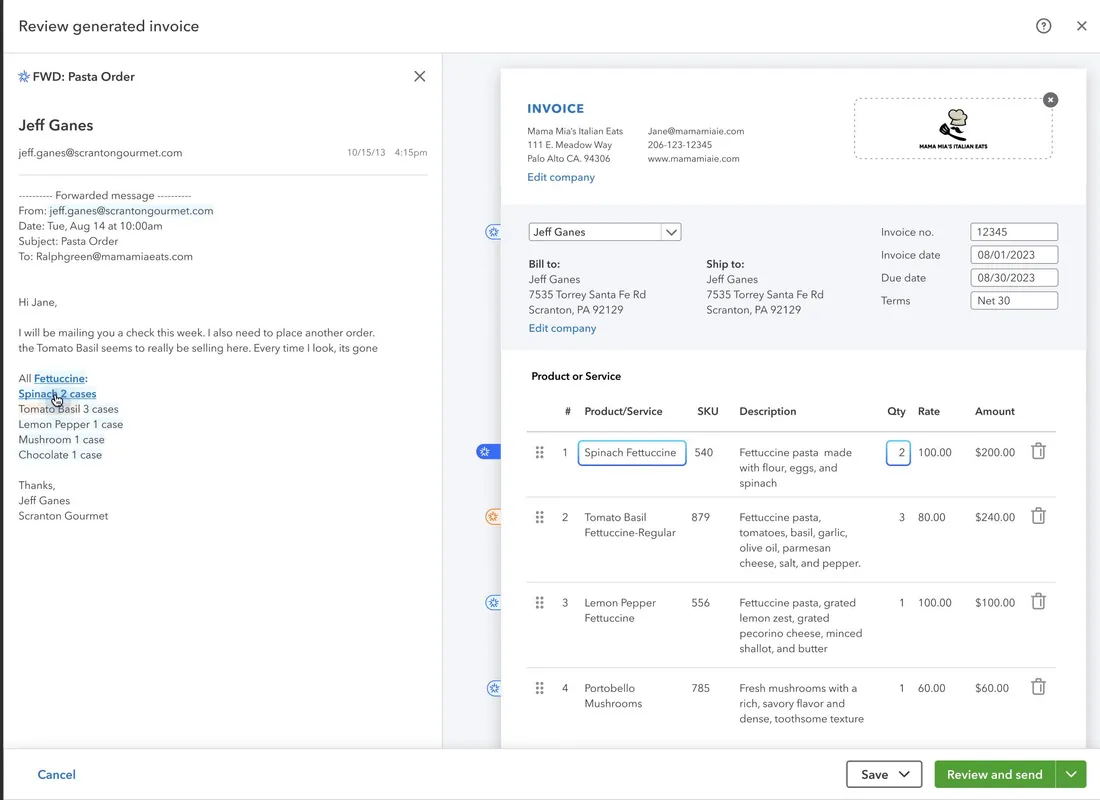
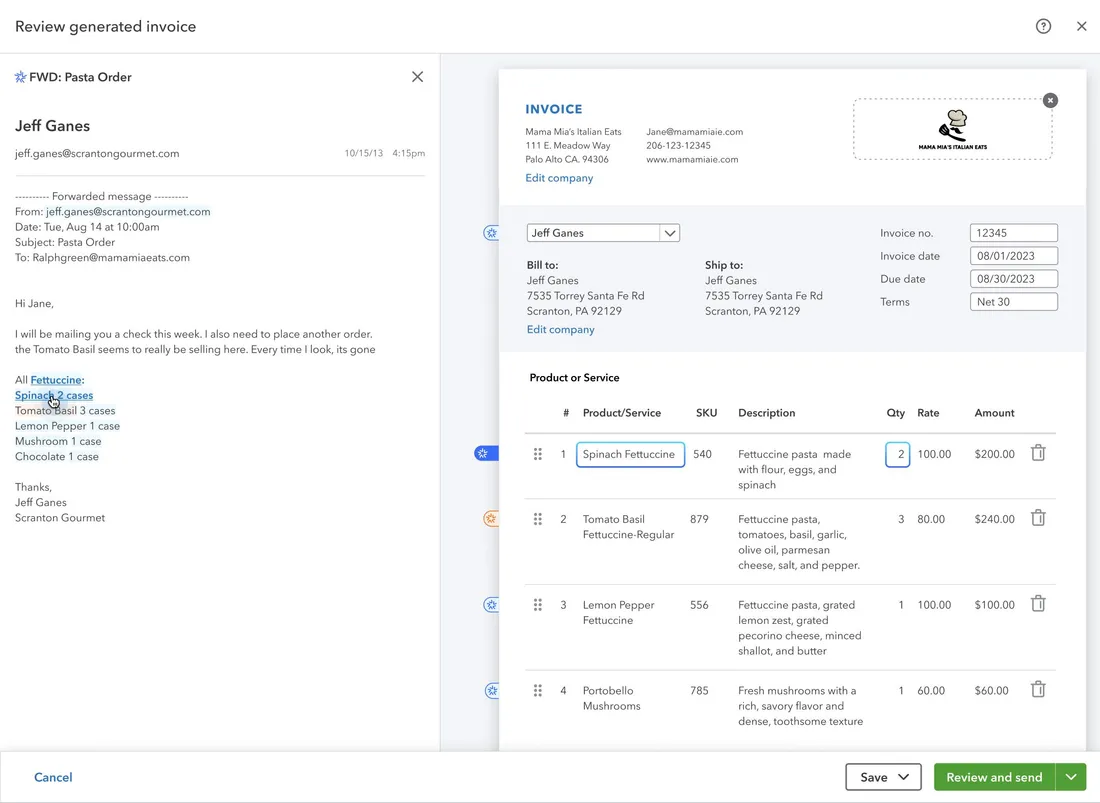
Crop black left edge from invoicing screenshot

diff --git a/index.html b/index.html
@@ -106,7 +106,7 @@
       </a>
       <a href="work.html#invoicing" style="display: flex; flex-direction: column; color: #14342e;">
         <div style="height: 250px; background: #eae7c8; padding: 36px 40px 0; overflow: hidden; display: flex; justify-content: center;">
-          <img src="assets/cs06-invoice-review-550.webp" srcset="assets/cs06-invoice-review-550.webp 550w, assets/cs06-invoice-review-1100.webp 1100w" sizes="(max-width: 860px) 92vw, 440px" width="1100" height="800" loading="lazy" decoding="async" alt="Review generated invoice: forwarded email beside the AI-drafted invoice" style="width: 100%; max-width: 440px; height: auto; object-fit: cover; object-position: top; display: block; border-radius: 10px 10px 0 0; box-shadow: 10px 10px 0 rgba(214,211,95,.55);">
+          <img src="assets/cs06-invoice-review-550.webp" srcset="assets/cs06-invoice-review-550.webp 550w, assets/cs06-invoice-review-1100.webp 1100w" sizes="(max-width: 860px) 92vw, 440px" width="1100" height="803" loading="lazy" decoding="async" alt="Review generated invoice: forwarded email beside the AI-drafted invoice" style="width: 100%; max-width: 440px; height: auto; object-fit: cover; object-position: top; display: block; border-radius: 10px 10px 0 0; box-shadow: 10px 10px 0 rgba(214,211,95,.55);">
         </div>
         <div style="display: flex; flex-direction: column; gap: 12px; padding: 26px 0 0;">
           <div style="font-size: 14px; letter-spacing: .22em; text-transform: uppercase; color: #c45f3f;">05 · craft · intuit assist</div>

diff --git a/work.html b/work.html
@@ -331,7 +331,7 @@
         <div style="width: 84px; height: 4px; background: #c45f3f; box-shadow: 5px 4px 0 #008471;"></div>
         <div style="font-size: 19px; line-height: 1.65; color: #4a4830; max-width: 560px; text-wrap: pretty;">Eliminating the manual step between a customer request and a paid invoice: AI reducing friction for owners who can’t afford to lose time.</div>
       </div>
-      <img src="assets/cs06-invoice-review-1100.webp" srcset="assets/cs06-invoice-review-550.webp 550w, assets/cs06-invoice-review-1100.webp 1100w" sizes="(max-width: 860px) 92vw, 46vw" width="1100" height="800" loading="lazy" decoding="async" alt="Review generated invoice: forwarded email beside the AI-drafted invoice" style="width: 100%; height: auto; border-radius: 12px; box-shadow: 12px 12px 0 rgba(214,211,95,.55), 0 30px 70px rgba(0,0,0,.15); display: block;">
+      <img src="assets/cs06-invoice-review-1100.webp" srcset="assets/cs06-invoice-review-550.webp 550w, assets/cs06-invoice-review-1100.webp 1100w" sizes="(max-width: 860px) 92vw, 46vw" width="1100" height="803" loading="lazy" decoding="async" alt="Review generated invoice: forwarded email beside the AI-drafted invoice" style="width: 100%; height: auto; border-radius: 12px; box-shadow: 12px 12px 0 rgba(214,211,95,.55), 0 30px 70px rgba(0,0,0,.15); display: block;">
     </div>
   </section>
 
